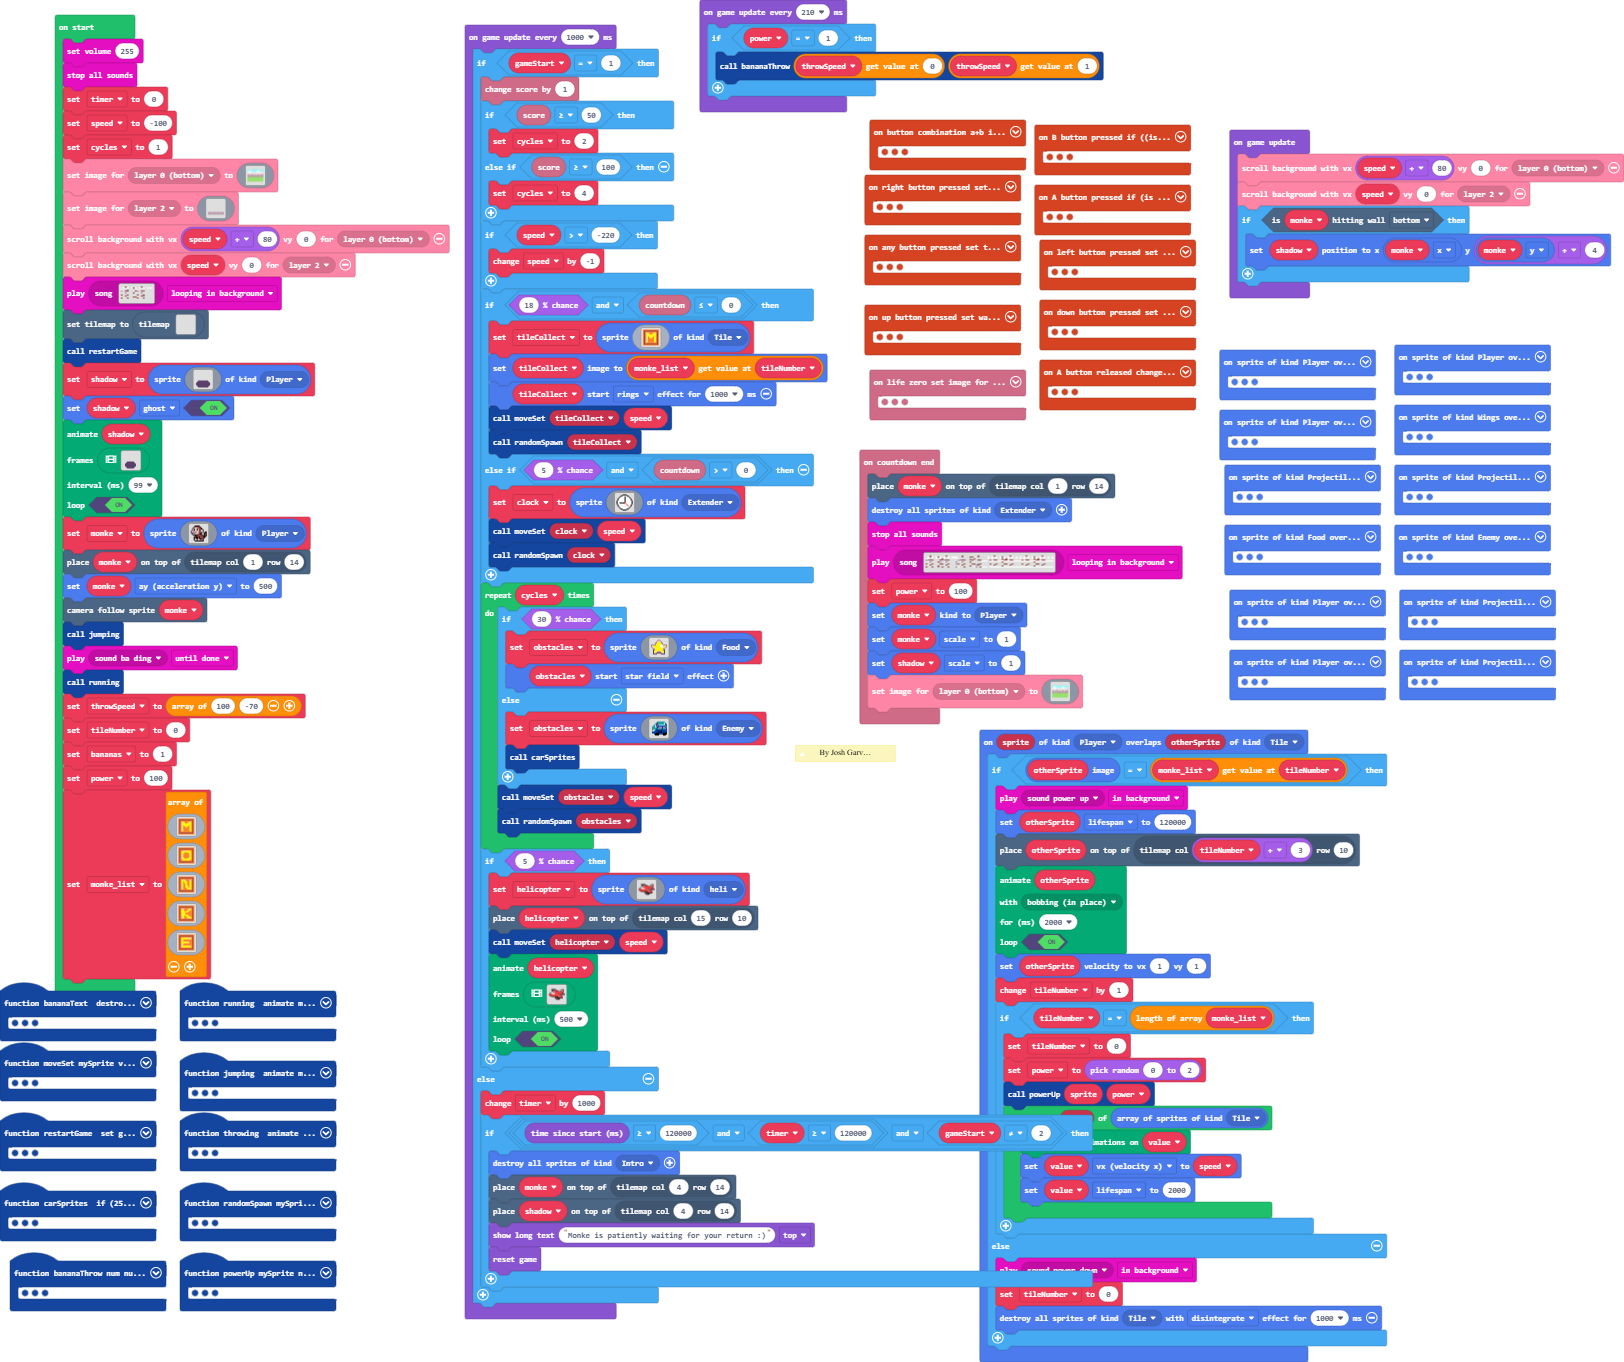
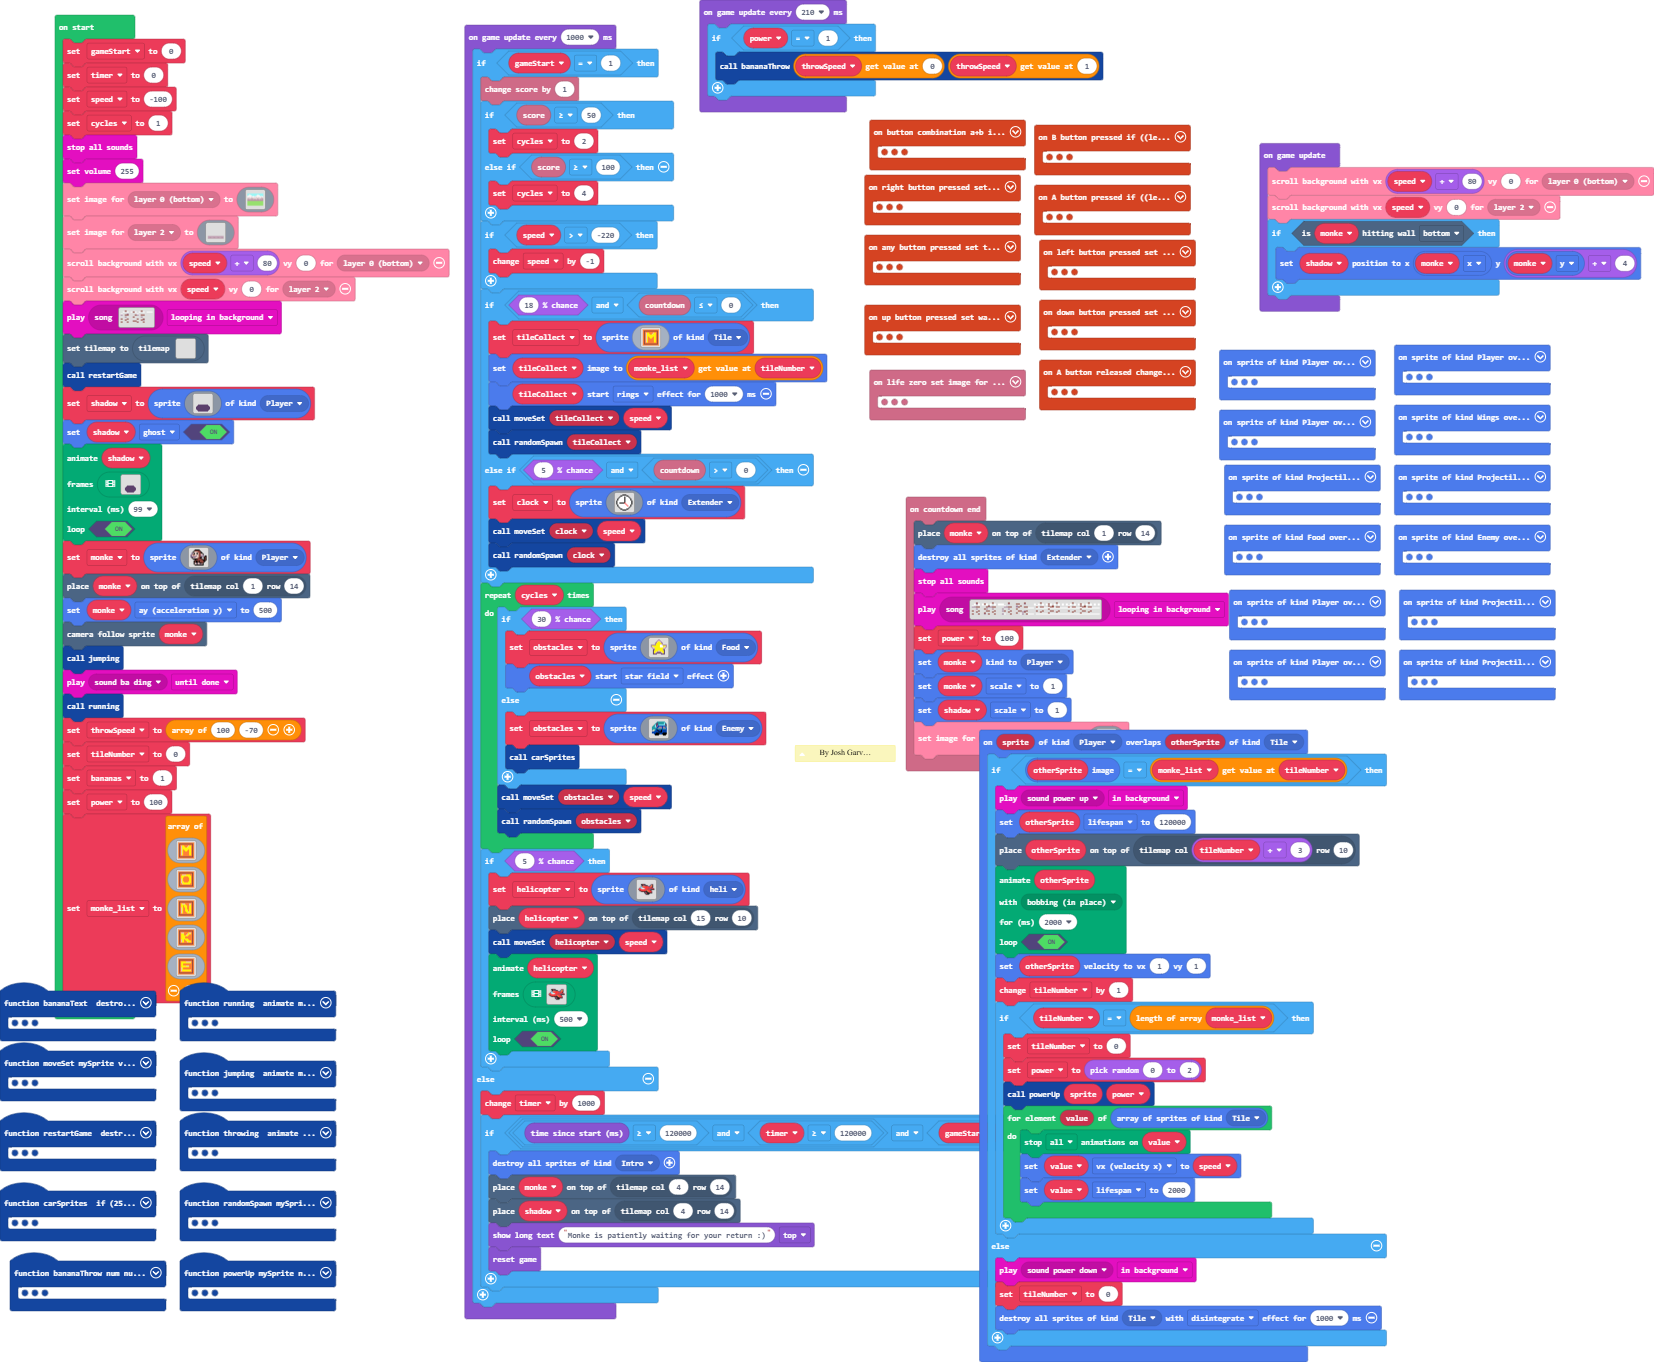
Fixed input before game start error

diff --git a/main.ts b/main.ts
@@ -813,8 +813,20 @@ sprites.onOverlap(SpriteKind.Projectile, SpriteKind.Intro, function (sprite, oth
     effects.confetti.startScreenEffect(100)
     scene.cameraShake(2, 100)
 })
+controller.A.onEvent(ControllerButtonEvent.Pressed, function () {
+    if (sprites.allOfKind(SpriteKind.Player).length == 1) {
+        if (monke.isHittingTile(CollisionDirection.Bottom)) {
+            monke.vy = -185
+            jumping()
+            shadow.scale = shadow.scale * 0.8
+            music.play(music.melodyPlayable(music.thump), music.PlaybackMode.InBackground)
+            pause(600)
+            shadow.scale = shadow.scale * 1.25
+            running()
+        }
+    }
+})
 function restartGame () {
-    gameStart = 0
     sprites.destroyAllSpritesOfKind(SpriteKind.Food)
     sprites.destroyAllSpritesOfKind(SpriteKind.Enemy)
     titleScreen = sprites.create(img`
@@ -1255,35 +1267,11 @@ sprites.onOverlap(SpriteKind.Player, SpriteKind.Heart, function (sprite, otherSp
     music.play(music.melodyPlayable(music.baDing), music.PlaybackMode.UntilDone)
     sprites.destroy(otherSprite, effects.hearts, 100)
 })
-controller.A.onEvent(ControllerButtonEvent.Pressed, function () {
-    if (monke.isHittingTile(CollisionDirection.Bottom)) {
-        monke.vy = -185
-        jumping()
-        shadow.scale = shadow.scale * 0.8
-        music.play(music.melodyPlayable(music.thump), music.PlaybackMode.InBackground)
-        pause(600)
-        shadow.scale = shadow.scale * 1.25
-        running()
-    }
-})
 sprites.onOverlap(SpriteKind.Wings, SpriteKind.Wings, function (sprite, otherSprite) {
     sprites.destroy(otherSprite)
 })
 controller.anyButton.onEvent(ControllerButtonEvent.Pressed, function () {
     timer = 0
-})
-controller.B.onEvent(ControllerButtonEvent.Pressed, function () {
-    if (monke.isHittingTile(CollisionDirection.Bottom) && bananas > 0) {
-        throwing()
-        if (gameStart == 1) {
-            bananas += -1
-            bananaText()
-        }
-        music.play(music.melodyPlayable(music.knock), music.PlaybackMode.InBackground)
-        pause(500)
-        bananaThrow(throwSpeed[0], throwSpeed[1])
-        running()
-    }
 })
 controller.A.onEvent(ControllerButtonEvent.Released, function () {
     monke.vy += 50
@@ -1800,6 +1788,21 @@ info.onLifeZero(function () {
         music.stopAllSounds()
     }
 })
+controller.B.onEvent(ControllerButtonEvent.Pressed, function () {
+    if (sprites.allOfKind(SpriteKind.Player).length == 1) {
+        if (monke.isHittingTile(CollisionDirection.Bottom) && bananas > 0) {
+            throwing()
+            if (gameStart == 1) {
+                bananas += -1
+                bananaText()
+            }
+            music.play(music.melodyPlayable(music.knock), music.PlaybackMode.InBackground)
+            pause(500)
+            bananaThrow(throwSpeed[0], throwSpeed[1])
+            running()
+        }
+    }
+})
 controller.left.onEvent(ControllerButtonEvent.Pressed, function () {
     throwSpeed = [25, -140]
 })
@@ -2137,7 +2140,6 @@ let scoreText = ""
 let banana: Sprite = null
 let textSprite: TextSprite = null
 let titleScreen: Sprite = null
-let gameStart = 0
 let obstacles: Sprite = null
 let monke_list: Image[] = []
 let power2 = 0
@@ -2148,11 +2150,13 @@ let monke: Sprite = null
 let shadow: Sprite = null
 let speed = 0
 let timer = 0
-music.setVolume(255)
-music.stopAllSounds()
+let gameStart = 0
+gameStart = 0
 timer = 0
 speed = -100
 let cycles = 1
+music.stopAllSounds()
+music.setVolume(255)
 scroller.setLayerImage(scroller.BackgroundLayer.Layer0, img`
     9999999999999999999999999999999999999999999999999999999999999999999999999999999999999999999999999999999999999999999999999999999999999999999999999999999999999999
     9999999999999999999999999999999999999999999999999999999999999999999999999999999999999999999999999999999999999999999999999999999999999999999999999999999999999999
